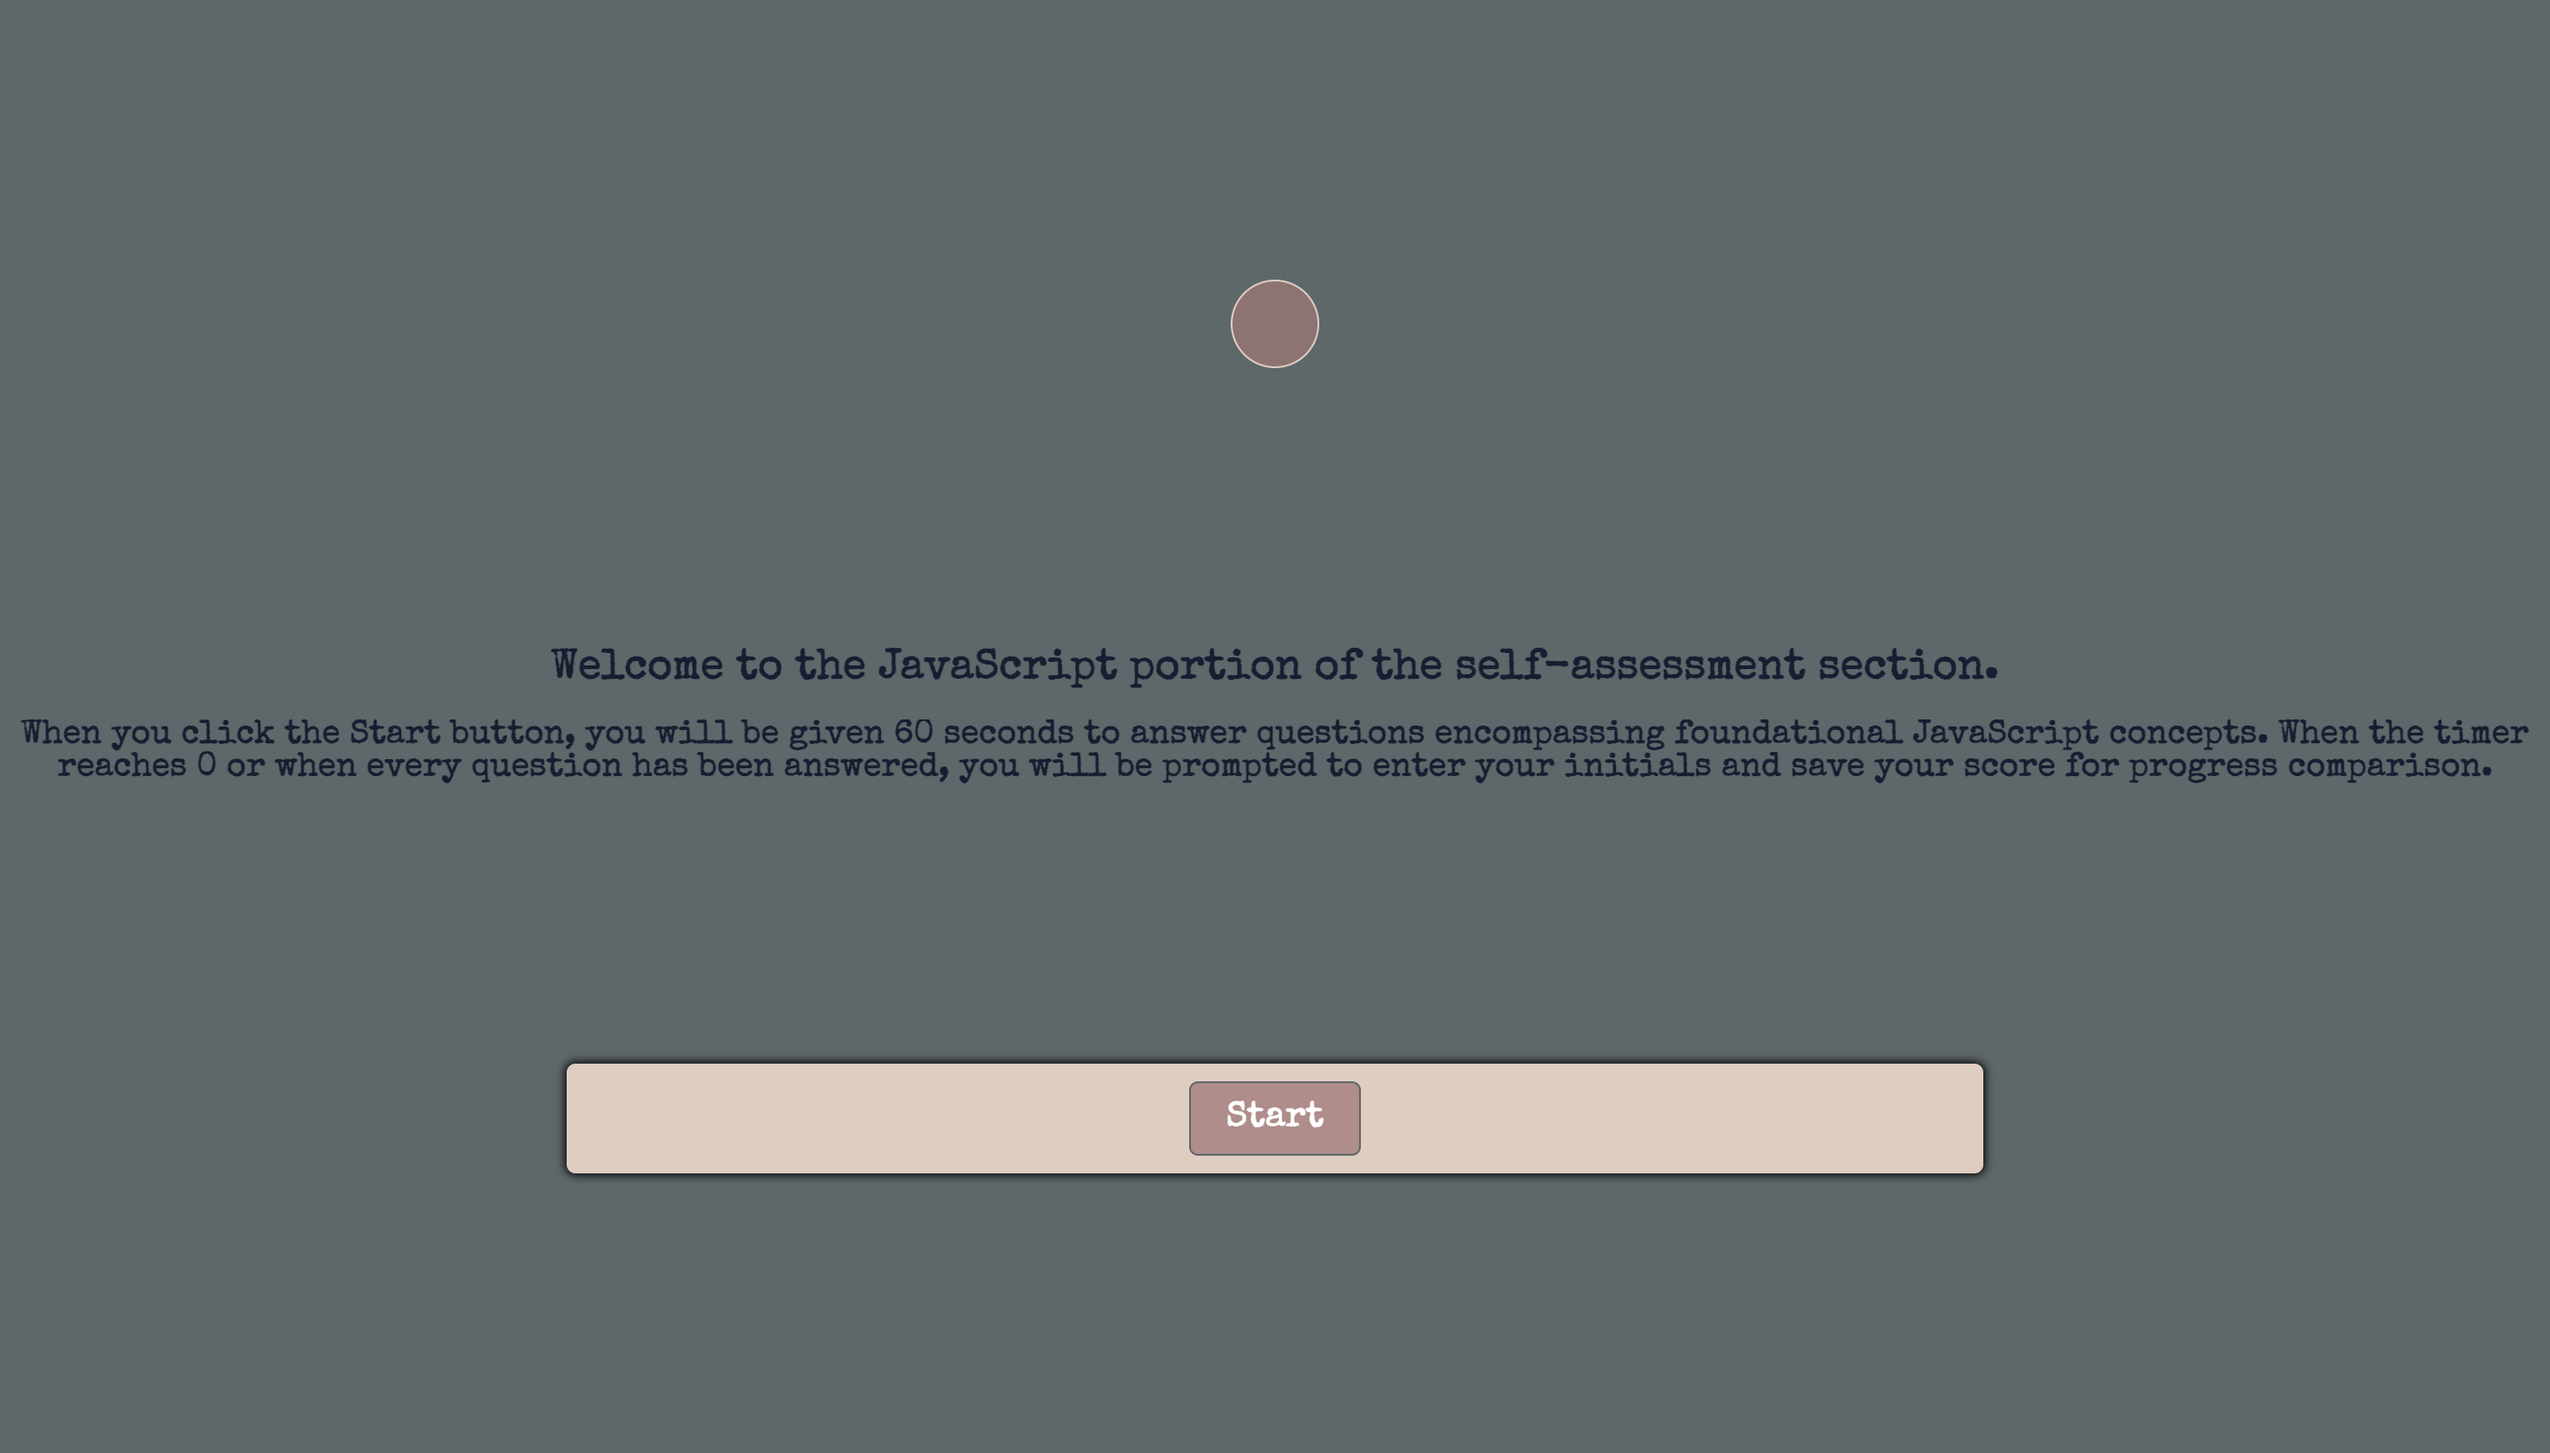
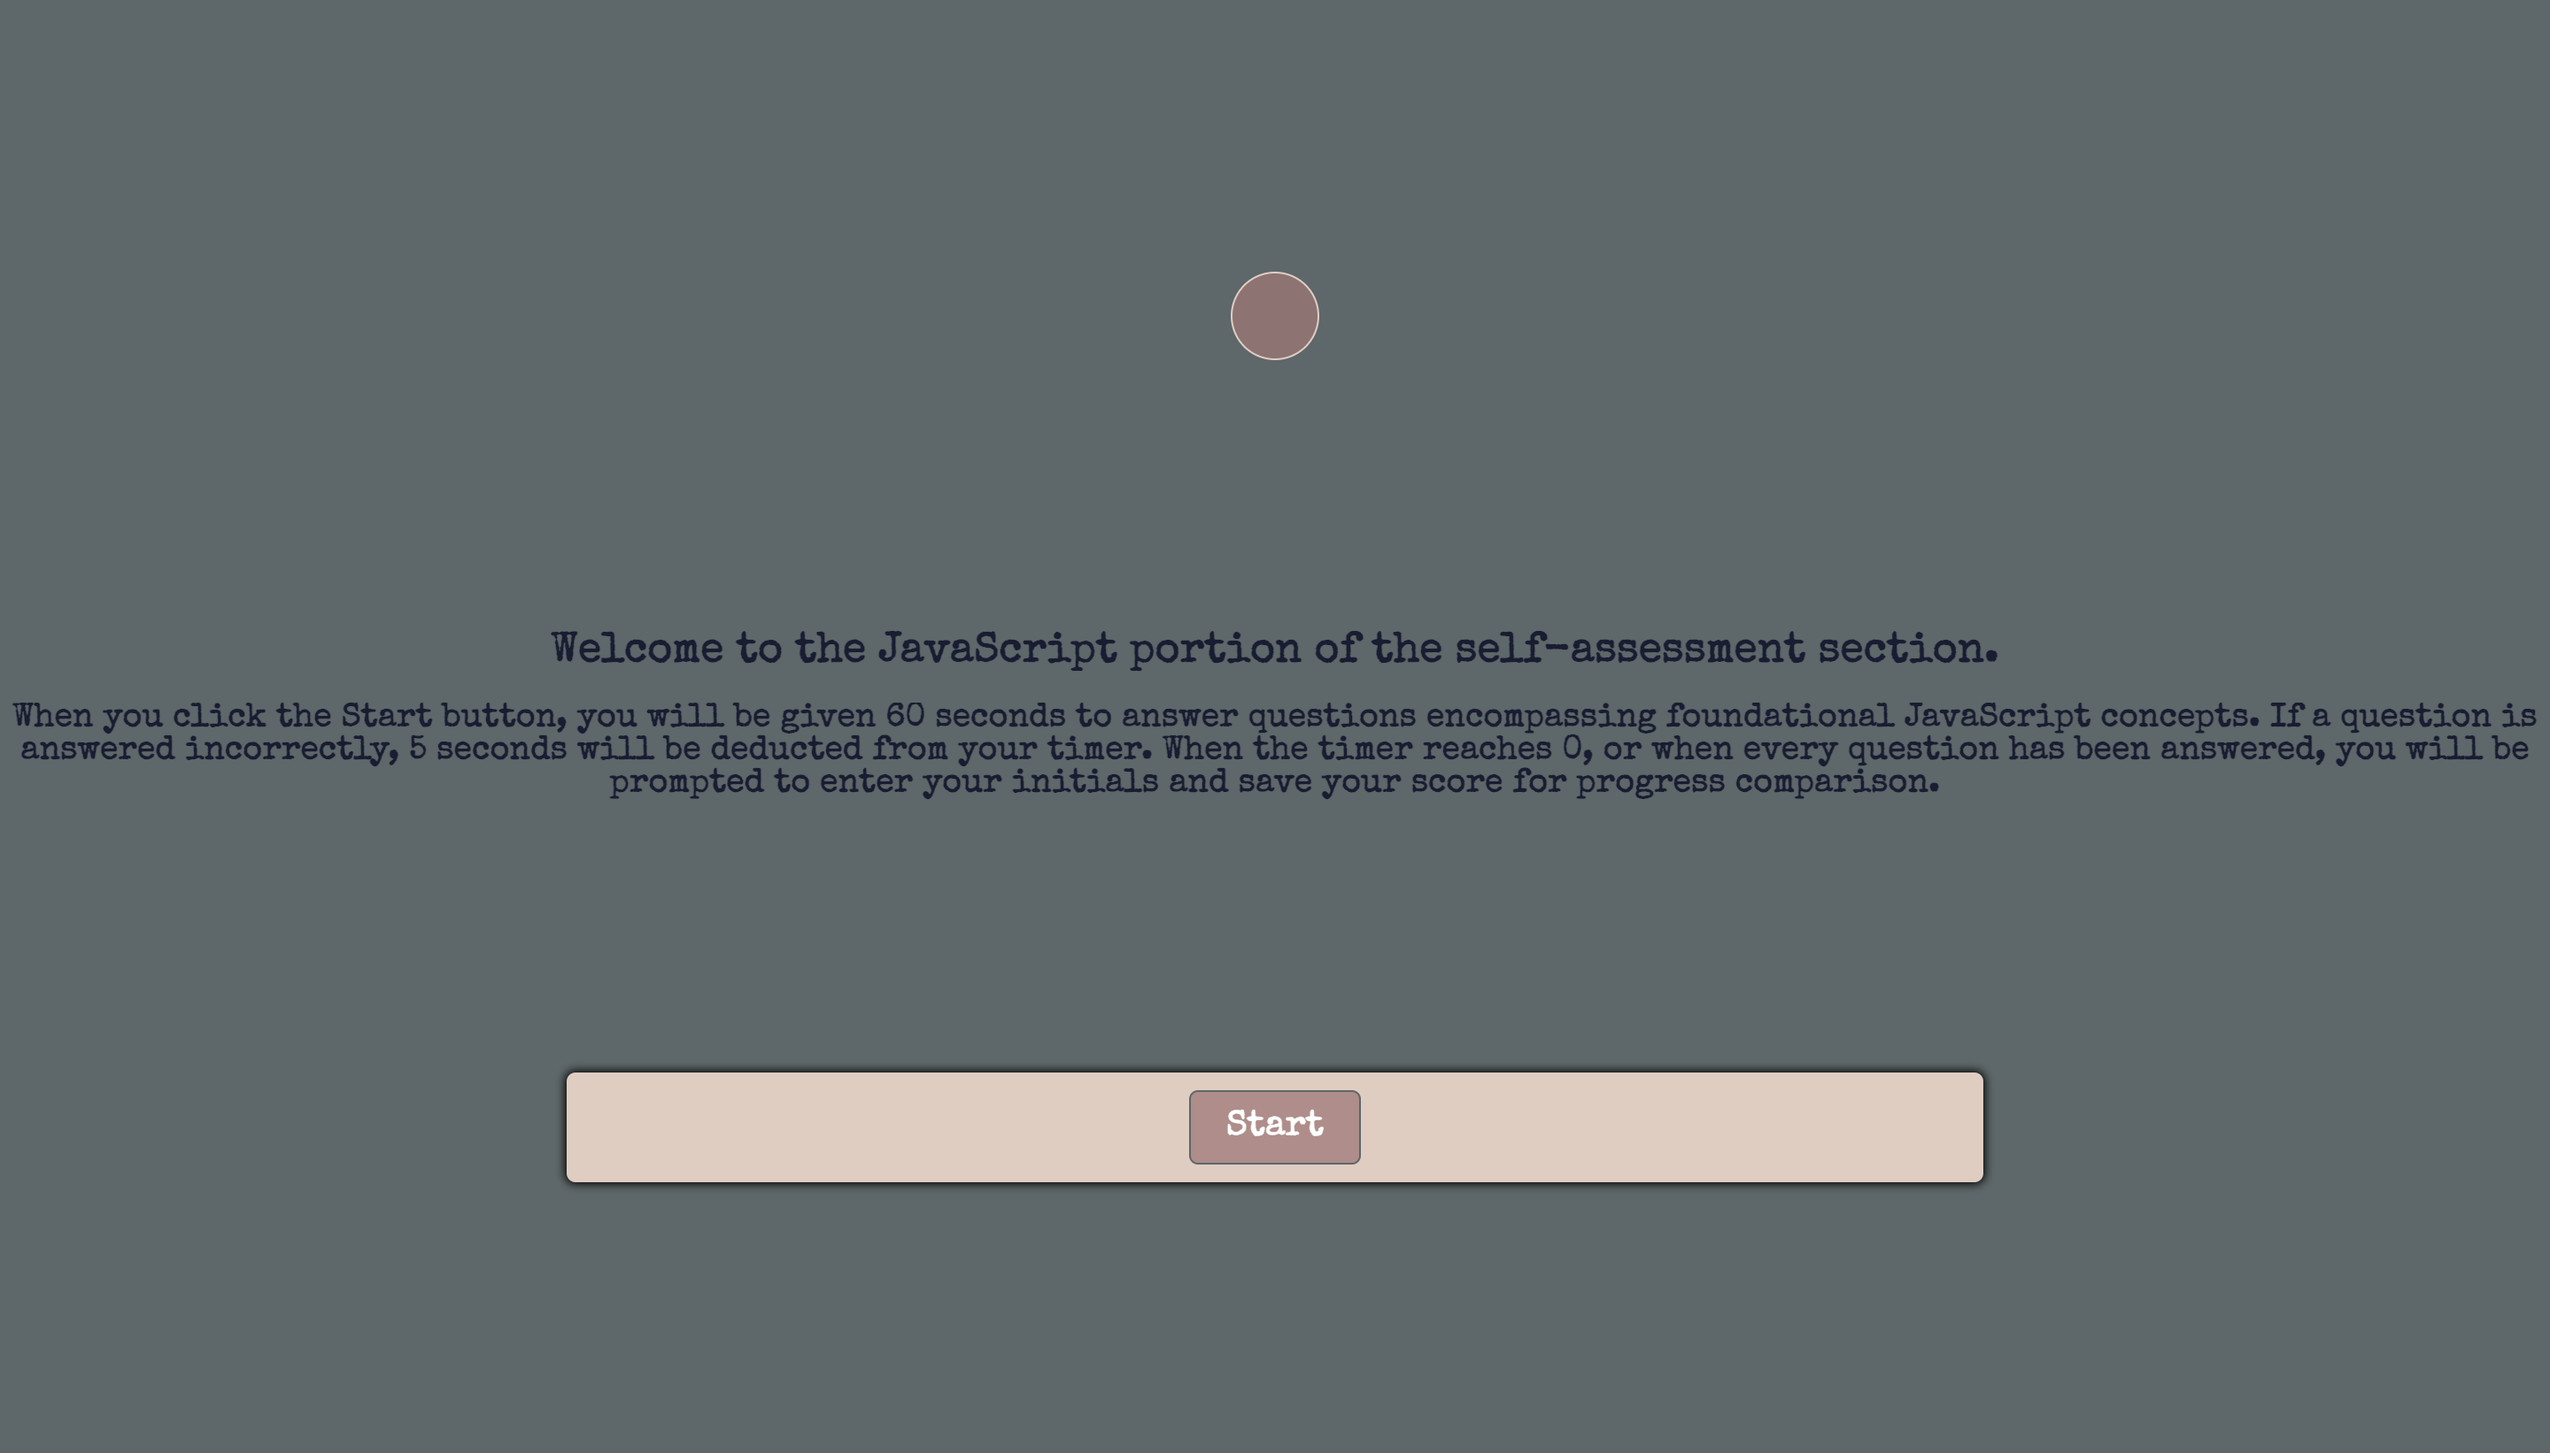
modified instructions container of html and how to use portion of README.md

Changed region(s): [[0.0, 0.4348, 1.0, 0.5591], [0.2188, 0.7144, 0.7812, 0.8386], [0.4688, 0.1864, 0.5312, 0.2485]]

diff --git a/index.html b/index.html
@@ -22,7 +22,7 @@
             <h2>Welcome to the JavaScript portion of the self-assessment section.</h2>
             <br>
             <h3>When you click the Start button, you will be given 60 seconds to answer questions
-                encompassing foundational JavaScript concepts. When the timer reaches 0 or when every question has been
+                encompassing foundational JavaScript concepts. If a question is answered incorrectly, 5 seconds will be deducted from your timer. When the timer reaches 0, or when every question has been
                 answered, you will be prompted to enter your initials and save your score for progress comparison.</h3>
         </div>
 

diff --git a/README.md b/README.md
@@ -12,7 +12,7 @@ Built with HTML, CSS, and JavaScript, this interactive self-assessment is design
 
 ## How to Use:
 
-When you click the Start button, you will be given 60 seconds to answer questions encompassing foundational JavaScript concepts. When the timer reaches 0 or when every question has been answered, you will be prompted to enter your initials and save your score for progress comparison.
+When you click the Start button, you will be given 60 seconds to answer questions encompassing foundational JavaScript concepts. If a question is answered incorrectly, 5 seconds will be deducted from your timer. When the timer reaches 0, or when every question has been answered, you will be prompted to enter your initials and save your score for progress comparison.
 
 ## Website:
 Access Phase I : The Self Assessment [HERE](https://denysha-abigail.github.io/coding-assessment/)
